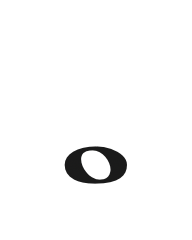
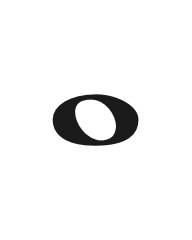
fix: use standard engraved note glyphs

Changed region(s): [[0.25, 0.3792, 0.7188, 0.7875]]

diff --git a/scripts/generate-note-icons.swift b/scripts/generate-note-icons.swift
@@ -17,12 +17,12 @@ guard CTFontManagerRegisterFontsForURL(fontURL as CFURL, .process, &registration
 try FileManager.default.createDirectory(at: outputURL, withIntermediateDirectories: true)
 
 let notes: [(name: String, glyph: String)] = [
-  ("whole", "\u{ECA2}"),
-  ("half", "\u{ECA3}"),
-  ("quarter", "\u{ECA5}"),
-  ("eighth", "\u{ECA7}"),
-  ("triplet", "\u{ECA7}"),
-  ("sixteenth", "\u{ECA9}"),
+  ("whole", "\u{E1D2}"),
+  ("half", "\u{E1D3}"),
+  ("quarter", "\u{E1D5}"),
+  ("eighth", "\u{E1D7}"),
+  ("triplet", "\u{E1D7}"),
+  ("sixteenth", "\u{E1D9}"),
 ]
 
 let palettes: [(name: String, color: NSColor)] = [
@@ -31,8 +31,7 @@ let palettes: [(name: String, color: NSColor)] = [
 ]
 
 let canvasSize = NSSize(width: 96, height: 120)
-let noteFont = NSFont(name: "BravuraText", size: 84)!
-let tripletFont = NSFont.systemFont(ofSize: 38, weight: .semibold)
+let tripletFont = NSFont.systemFont(ofSize: 30, weight: .semibold)
 
 func centeredOrigin(for text: NSAttributedString, in size: NSSize) -> NSPoint {
   let bounds = text.boundingRect(
@@ -52,6 +51,8 @@ for note in notes {
     NSColor.clear.setFill()
     NSRect(origin: .zero, size: canvasSize).fill()
 
+    let noteFontSize: CGFloat = note.name == "whole" ? 116 : 74
+    let noteFont = NSFont(name: "BravuraText", size: noteFontSize)!
     let glyph = NSAttributedString(
       string: note.glyph,
       attributes: [
@@ -60,6 +61,9 @@ for note in notes {
       ]
     )
     var glyphOrigin = centeredOrigin(for: glyph, in: canvasSize)
+    if note.name != "whole" {
+      glyphOrigin.y -= 5
+    }
     if note.name == "triplet" {
       glyphOrigin.x += 8
     }
@@ -73,7 +77,7 @@ for note in notes {
           .foregroundColor: palette.color,
         ]
       )
-      numeral.draw(at: NSPoint(x: 9, y: 70))
+      numeral.draw(at: NSPoint(x: 12, y: 65))
     }
 
     image.unlockFocus()

diff --git a/src/lib/click-rhythm.ts b/src/lib/click-rhythm.ts
@@ -1,16 +1,16 @@
 export const CLICK_RHYTHMS = [
-  { id: 'whole', label: 'Whole', rate: 0.25, glyph: '\uECA2' },
-  { id: 'half', label: 'Half', rate: 0.5, glyph: '\uECA3' },
-  { id: 'quarter', label: 'Quarter', rate: 1, glyph: '\uECA5' },
-  { id: 'eighth', label: 'Eighth', rate: 2, glyph: '\uECA7' },
+  { id: 'whole', label: 'Whole', rate: 0.25, glyph: '\uE1D2' },
+  { id: 'half', label: 'Half', rate: 0.5, glyph: '\uE1D3' },
+  { id: 'quarter', label: 'Quarter', rate: 1, glyph: '\uE1D5' },
+  { id: 'eighth', label: 'Eighth', rate: 2, glyph: '\uE1D7' },
   {
     id: 'triplet',
     label: 'Triplet',
     rate: 3,
-    glyph: '\uECA7',
+    glyph: '\uE1D7',
     tupletGlyph: '\uE883',
   },
-  { id: 'sixteenth', label: '16th', rate: 4, glyph: '\uECA9' },
+  { id: 'sixteenth', label: '16th', rate: 4, glyph: '\uE1D9' },
 ] as const;
 
 export type ClickRhythm = (typeof CLICK_RHYTHMS)[number]['id'];

diff --git a/__tests__/click-rhythm-test.ts b/__tests__/click-rhythm-test.ts
@@ -19,12 +19,12 @@ describe('click rhythms', () => {
 
   test('uses standard SMuFL notation glyphs instead of text abbreviations', () => {
     expect(CLICK_RHYTHMS.map(({ id, glyph }) => [id, glyph])).toEqual([
-      ['whole', '\uECA2'],
-      ['half', '\uECA3'],
-      ['quarter', '\uECA5'],
-      ['eighth', '\uECA7'],
-      ['triplet', '\uECA7'],
-      ['sixteenth', '\uECA9'],
+      ['whole', '\uE1D2'],
+      ['half', '\uE1D3'],
+      ['quarter', '\uE1D5'],
+      ['eighth', '\uE1D7'],
+      ['triplet', '\uE1D7'],
+      ['sixteenth', '\uE1D9'],
     ]);
     const triplet = CLICK_RHYTHMS.find(({ id }) => id === 'triplet');
     expect(triplet && 'tupletGlyph' in triplet ? triplet.tupletGlyph : undefined).toBe('\uE883');
